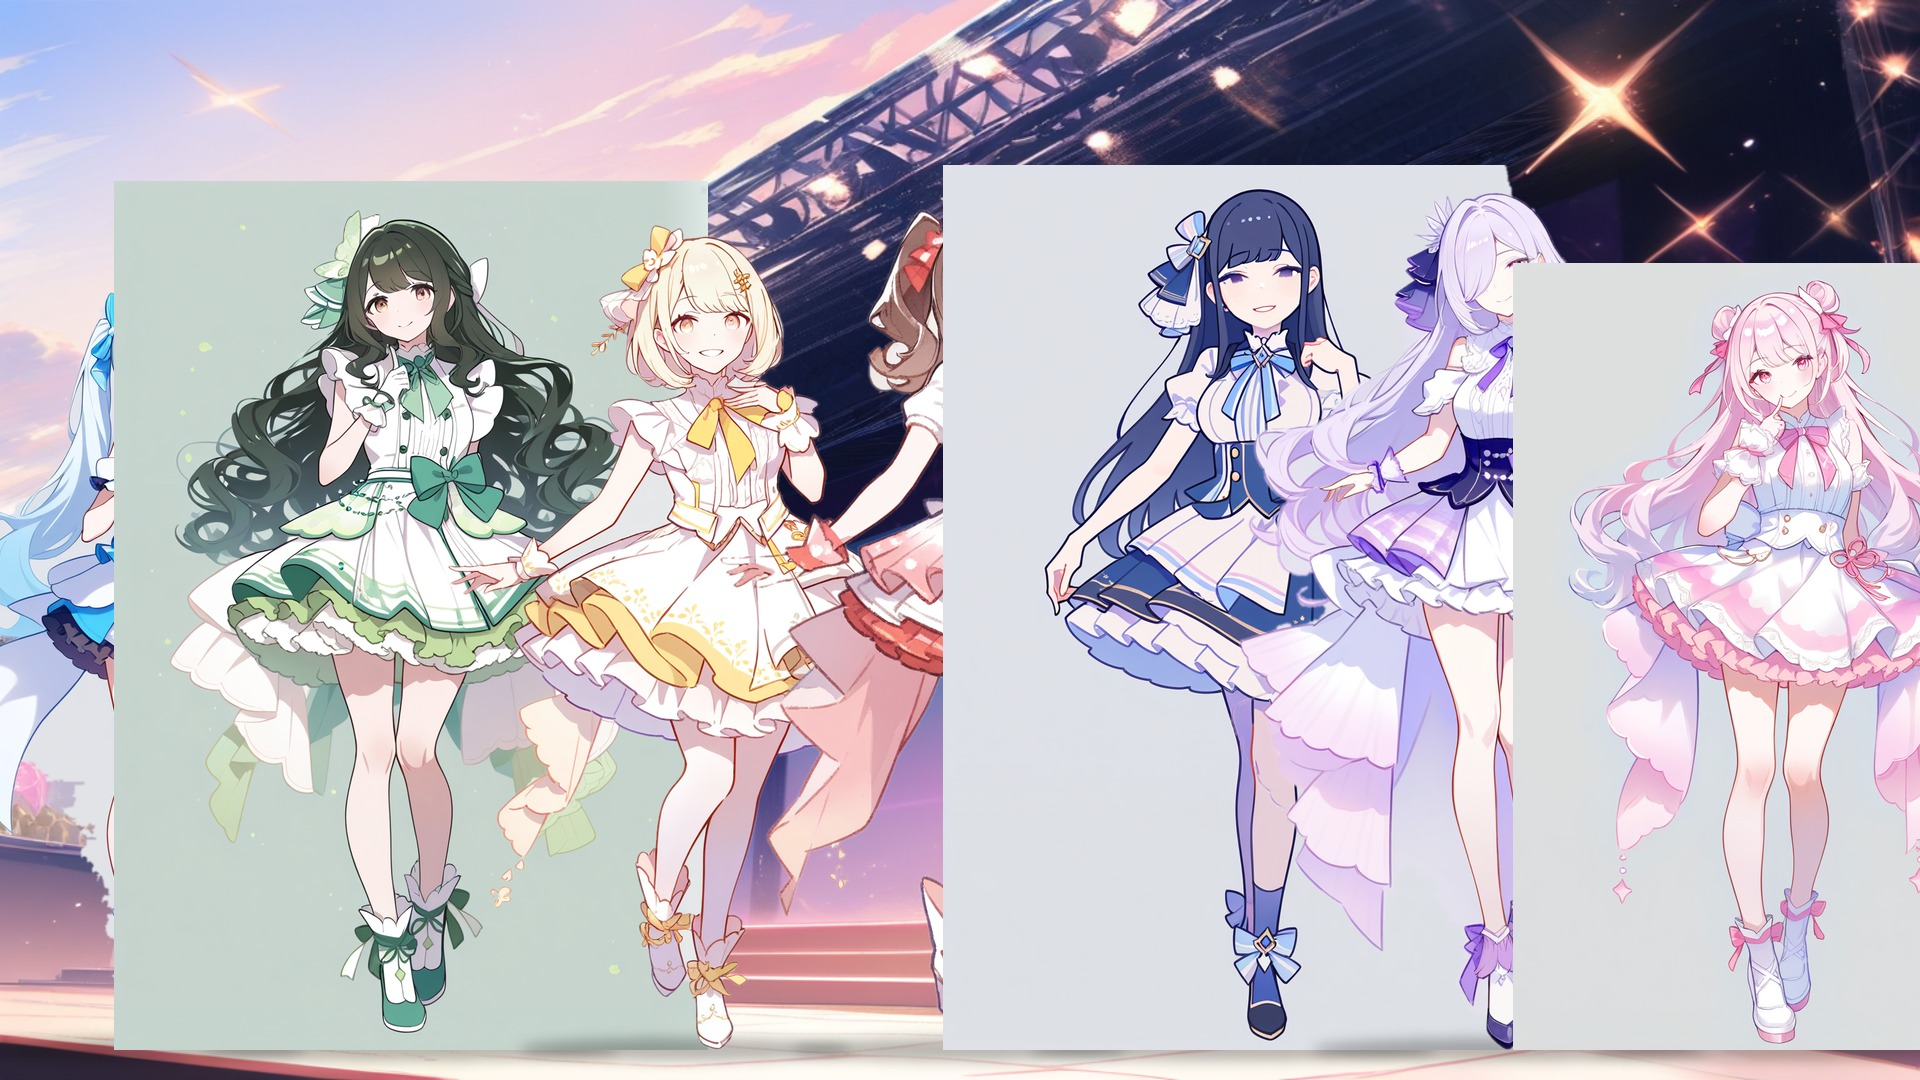
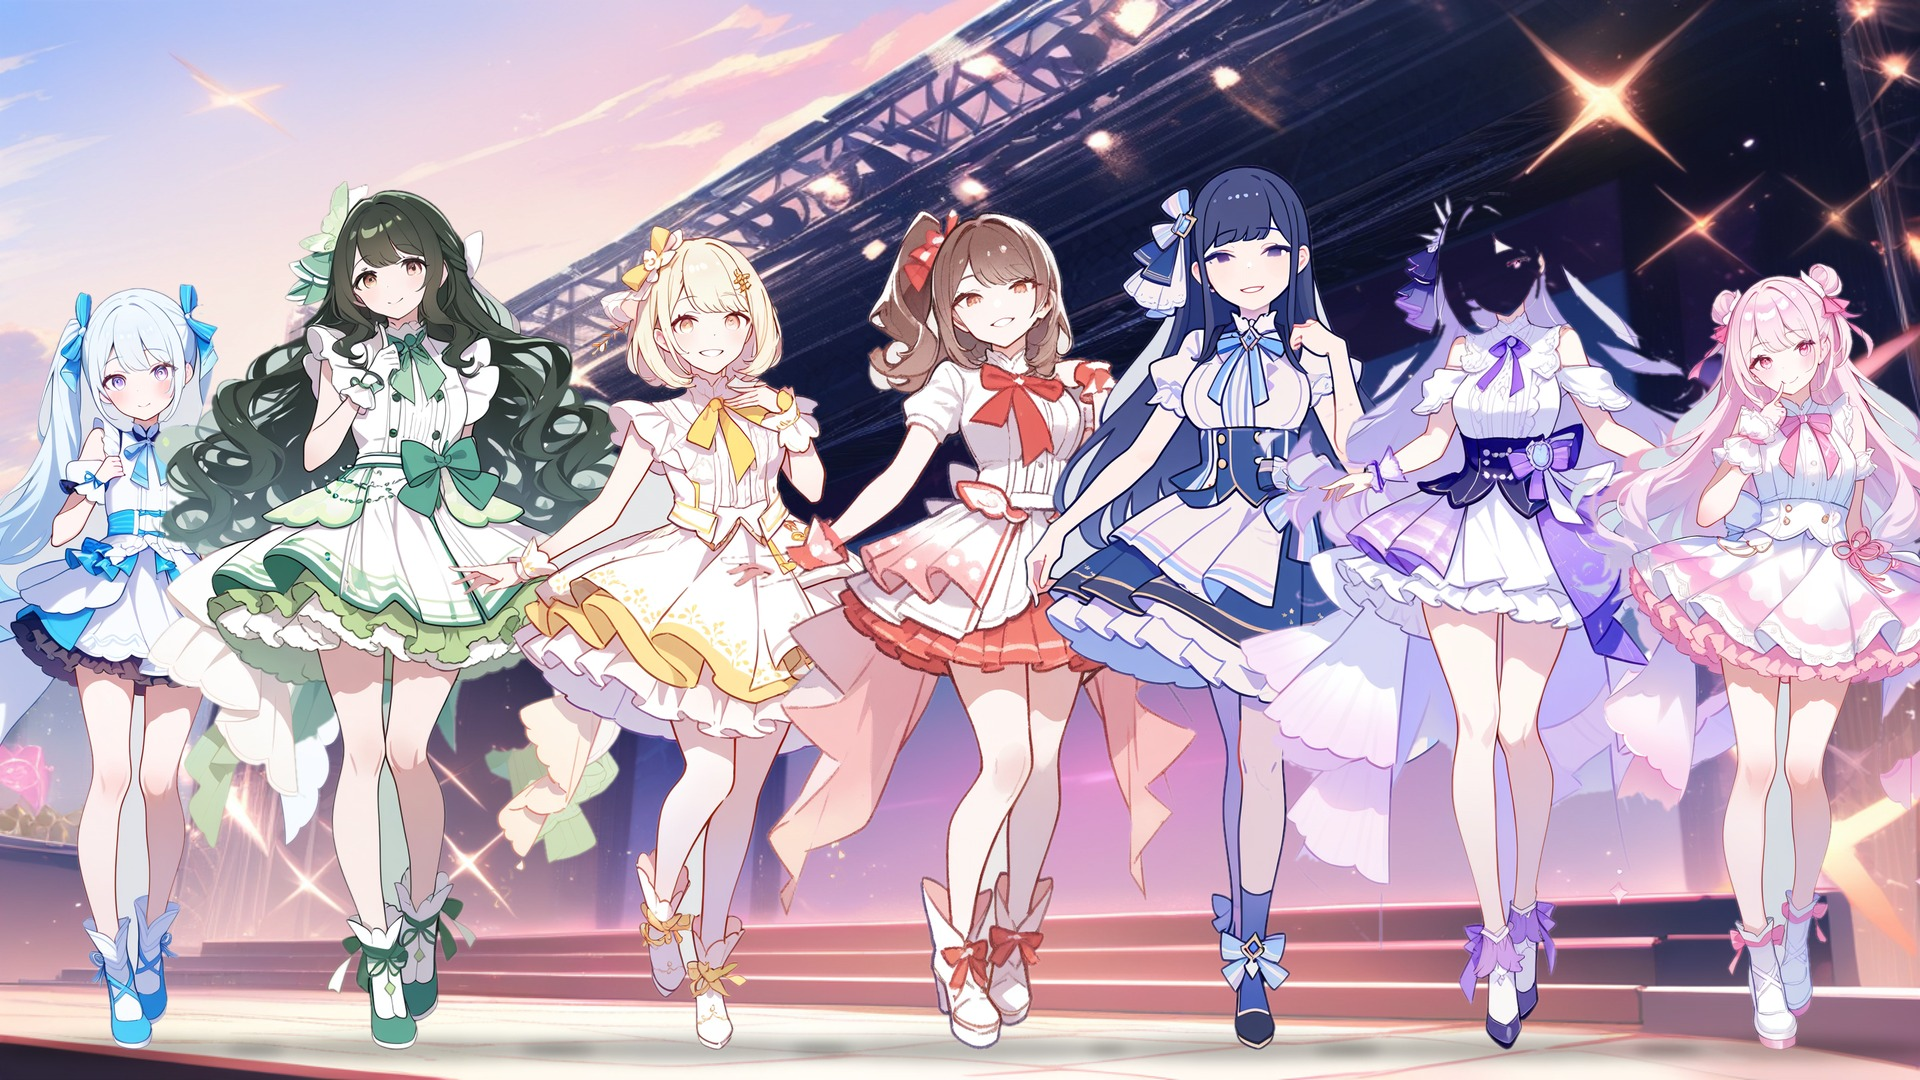
AI idol: fix cutout (corner-colour key) and rebuild group photos
Claude-Session: https://claude.ai/code/session_01NDbBRrerzQWzbGrLCvpGBJ

diff --git a/ai-idol/make_sheets.py b/ai-idol/make_sheets.py
@@ -17,14 +17,17 @@ FONT = ImageFont.truetype("/usr/share/fonts/opentype/noto/NotoSerifCJK-Bold.ttc"
 
 
 def cutout(path):
+    """Remove a flat background: colour sampled from the corners, flood-filled from the image border."""
     im = Image.open(path).convert("RGB"); a = np.asarray(im).astype(np.int16)
-    bright = a.min(axis=2) > 225; flat = (a.max(axis=2) - a.min(axis=2)) < 28
-    lab, n = ndimage.label(bright & flat)
+    corners = np.concatenate([a[:12, :12].reshape(-1, 3), a[:12, -12:].reshape(-1, 3), a[-12:, :12].reshape(-1, 3), a[-12:, -12:].reshape(-1, 3)])
+    bgc = np.median(corners, axis=0)
+    near = np.abs(a - bgc).max(axis=2) < 26
+    lab, n = ndimage.label(near)
     edge = set(np.unique(np.concatenate([lab[0], lab[-1], lab[:, 0], lab[:, -1]]))) - {0}
     bg = np.isin(lab, list(edge))
     alpha = (~bg).astype(np.uint8) * 255
     alpha = np.asarray(Image.fromarray(alpha).filter(ImageFilter.MinFilter(3)).filter(ImageFilter.GaussianBlur(1.2)))
-    rgba = np.dstack([np.asarray(im), alpha]); out = Image.fromarray(rgba, "RGBA")
+    out = Image.fromarray(np.dstack([np.asarray(im), alpha]), "RGBA")
     ys, xs = np.where(alpha > 40)
     return out.crop((xs.min(), ys.min(), xs.max() + 1, ys.max() + 1)) if len(xs) else out
 
